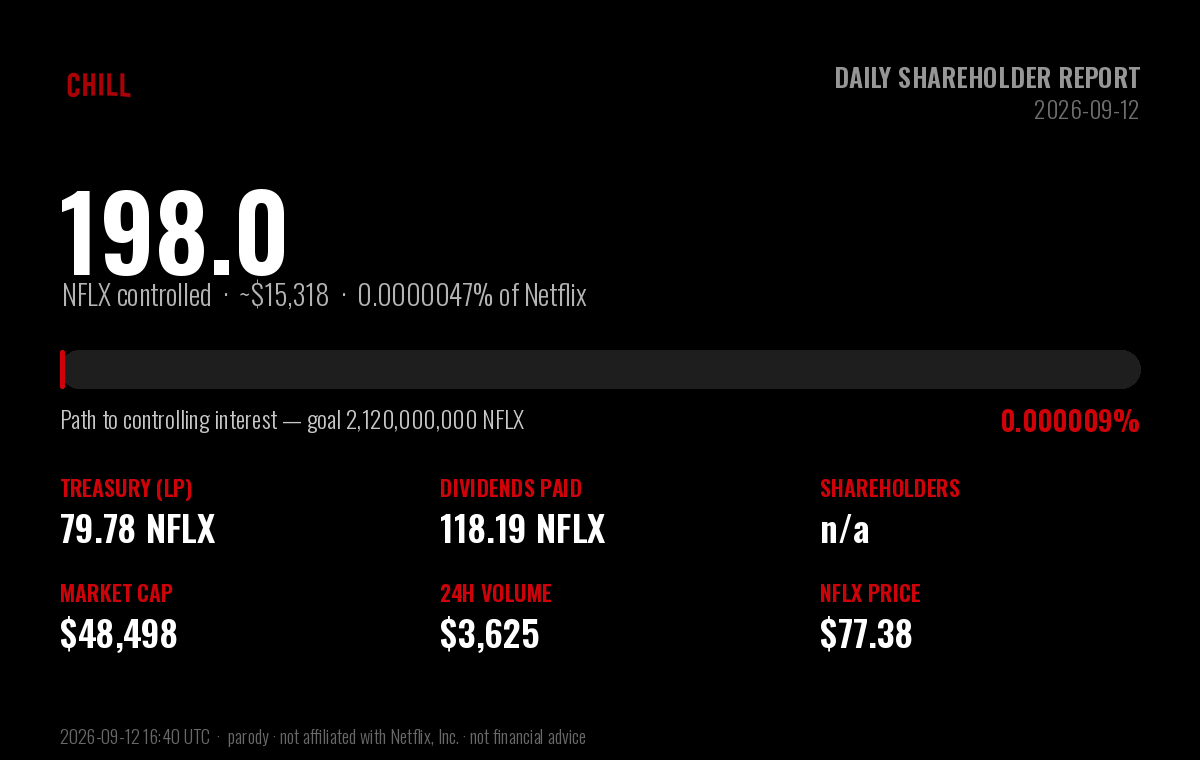
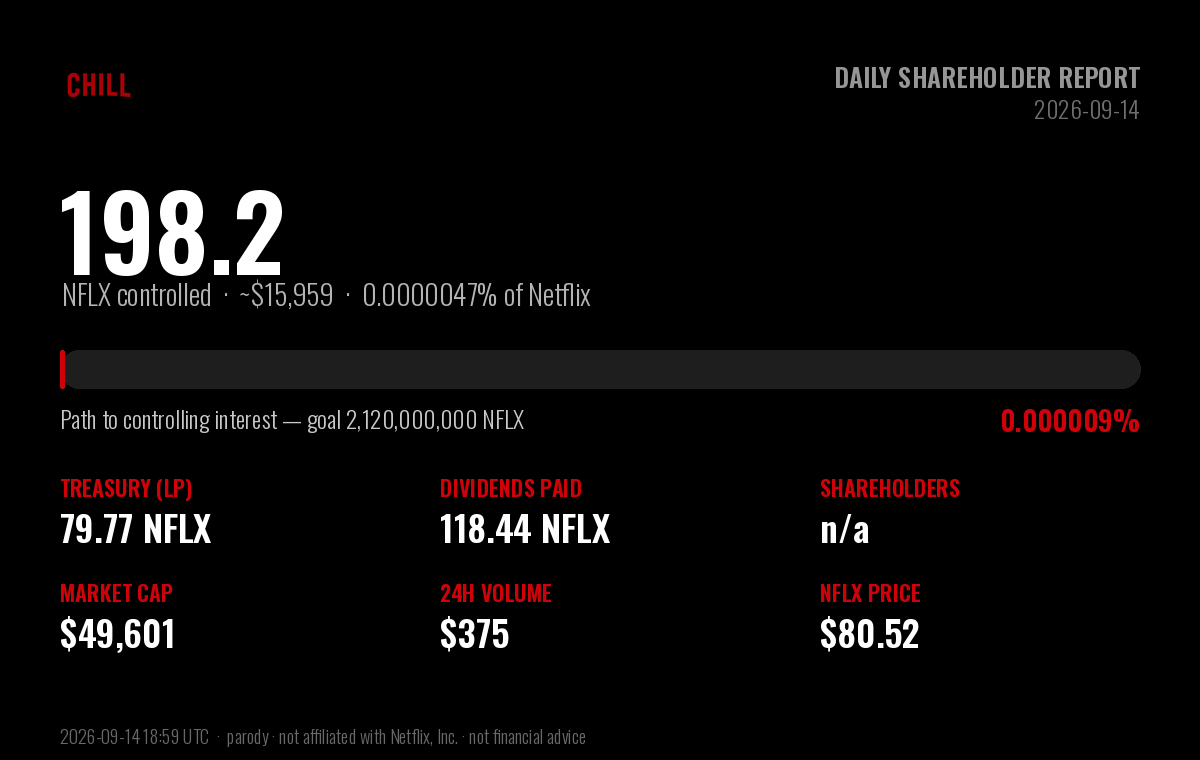
chore: daily $CHILL shareholder report (2026-09-14)

diff --git a/daily-holder-report/README.md b/daily-holder-report/README.md
@@ -1,6 +1,6 @@
 # $CHILL — Daily Shareholder Report
 
-### Netflix and Chill · Report to Shareholders · 2026-09-12
+### Netflix and Chill · Report to Shareholders · 2026-09-14
 
 > **Corporate objective:** acquire a controlling interest in Netflix (NFLX).
 > Netflix has **4,220,000,000** shares outstanding; a majority
@@ -13,8 +13,8 @@
 
 | Metric | Value |
 |---|---|
-| **NFLX under $CHILL control** | **197.97 NFLX** (~$15,318) |
-| Stake in Netflix | 0.000004691% of shares outstanding |
+| **NFLX under $CHILL control** | **198.20 NFLX** (~$15,959) |
+| Stake in Netflix | 0.000004697% of shares outstanding |
 | Progress to controlling interest | 0.0000093% of 2,120,000,000 |
 | Shares remaining to majority | 2,119,999,802 NFLX |
 
@@ -22,44 +22,44 @@
 
 | Holding | NFLX | USD |
 |---|---|---|
-| Treasury (protocol-owned liquidity) | 79.78 | $6,173 |
-| Dividends distributed to shareholders | 118.19 | $9,145 |
-| **Total NFLX controlled** | **197.97** | **$15,318** |
+| Treasury (protocol-owned liquidity) | 79.77 | $6,423 |
+| Dividends distributed to shareholders | 118.44 | $9,536 |
+| **Total NFLX controlled** | **198.20** | **$15,959** |
 
 ## Last 24 hours
 
 | Metric | Value |
 |---|---|
-| Trading volume | 46.85 NFLX (~$3,625) |
-| Net NFLX accumulated | -22.72 NFLX |
-| Dividends generated | 0.4685 NFLX |
-| Transactions | 19 (7 buys / 12 sells) |
-| $CHILL price change | -39.5% |
+| Trading volume | 4.66 NFLX (~$375) |
+| Net NFLX accumulated | 3.83 NFLX |
+| Dividends generated | 0.0466 NFLX |
+| Transactions | 9 (7 buys / 2 sells) |
+| $CHILL price change | +11.9% |
 
 ## Shareholder & market data
 
 | Metric | Value |
 |---|---|
 | Shareholders of record | n/a |
-| Lifetime unique participants | 1777 |
+| Lifetime unique participants | 1785 |
 | Shares outstanding ($CHILL) | 1,000,000,000 |
-| Market capitalization | $48,498 |
-| $CHILL price | $0.00004850 |
-| NFLX price | $77.38 |
-| Lifetime volume | 11,818.98 NFLX (~$914,535) |
-| Lifetime transactions | 8,425 (4,716 buys / 3,709 sells) |
-| Days since IPO (launch) | 55 |
+| Market capitalization | $49,601 |
+| $CHILL price | $0.00004960 |
+| NFLX price | $80.52 |
+| Lifetime volume | 11,843.56 NFLX (~$953,629) |
+| Lifetime transactions | 8,453 (4,737 buys / 3,716 sells) |
+| Days since IPO (launch) | 57 |
 
 ## Per-share metrics
 
 | Metric | Value |
 |---|---|
-| NFLX backing per 1M $CHILL | 0.197966 NFLX |
-| Dividends per 1M $CHILL | 0.118190 NFLX |
+| NFLX backing per 1M $CHILL | 0.198201 NFLX |
+| Dividends per 1M $CHILL | 0.118436 NFLX |
 
 ---
 
-*Report generated 2026-09-12 16:40 UTC · block 61,254,265 · data via the Sentry-Robinhood
+*Report generated 2026-09-14 18:59 UTC · block 63,038,258 · data via the Sentry-Robinhood
 subgraph and Robinhood Chain explorer.*
 
 **Disclaimer:** $CHILL is an independent, community-driven **parody** token. It is
